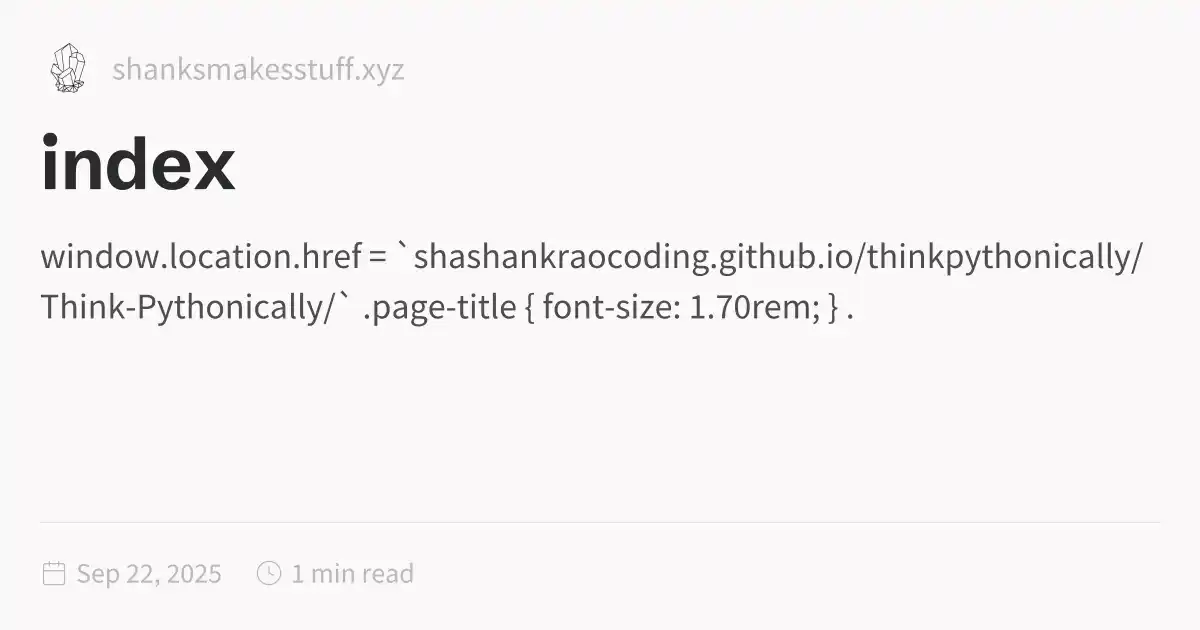
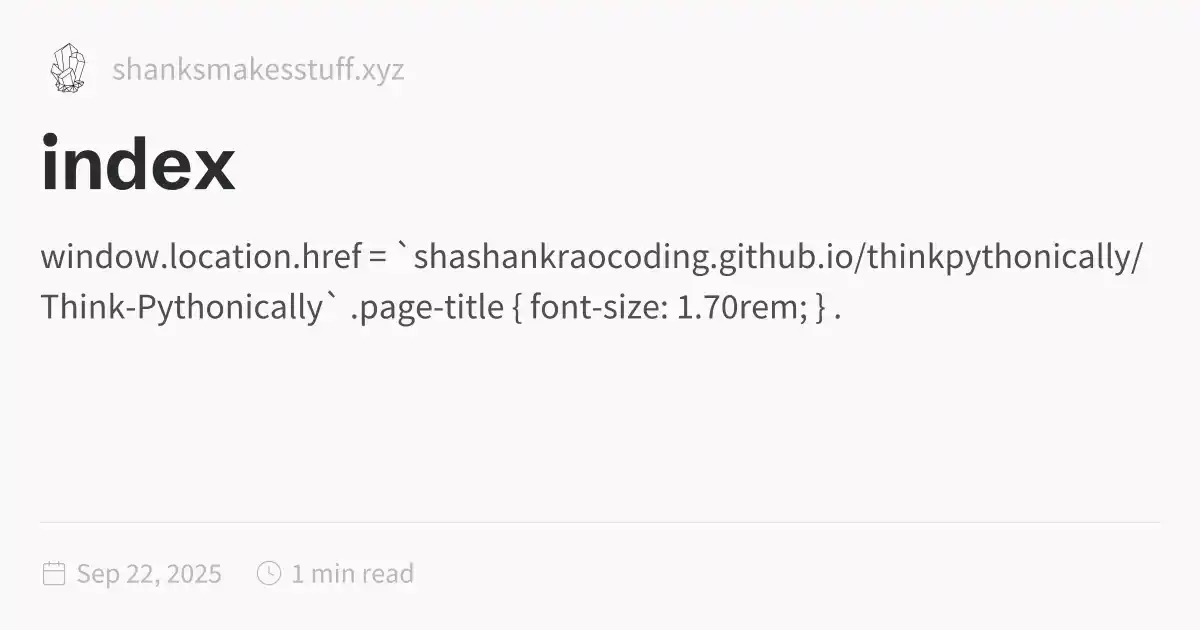
2025-09-22_2202

Changed region(s): [[0.2775, 0.4524, 0.7092, 0.5127]]

diff --git a/index.html b/index.html
@@ -1,5 +1,5 @@
 <!DOCTYPE html>
-<html lang="en"><head><title>index</title><meta charset="utf-8"/><link rel="preconnect" href="https://fonts.googleapis.com"/><link rel="preconnect" href="https://fonts.gstatic.com"/><link rel="stylesheet" href="https://fonts.googleapis.com/css2?family=Schibsted Grotesk:wght@400;700&amp;family=Source Sans Pro:ital,wght@0,400;0,600;1,400;1,600&amp;family=IBM Plex Mono:wght@400;600&amp;display=swap"/><link rel="preconnect" href="https://cdnjs.cloudflare.com" crossorigin="anonymous"/><meta name="viewport" content="width=device-width, initial-scale=1.0"/><meta name="og:site_name" content="ShanksMakesStuff"/><meta property="og:title" content="index"/><meta property="og:type" content="website"/><meta name="twitter:card" content="summary_large_image"/><meta name="twitter:title" content="index"/><meta name="twitter:description" content="window.location.href = `shashankraocoding.github.io/thinkpythonically/Think-Pythonically/` .page-title { font-size: 1.70rem; } ."/><meta property="og:description" content="window.location.href = `shashankraocoding.github.io/thinkpythonically/Think-Pythonically/` .page-title { font-size: 1.70rem; } ."/><meta property="og:image:alt" content="window.location.href = `shashankraocoding.github.io/thinkpythonically/Think-Pythonically/` .page-title { font-size: 1.70rem; } ."/><meta property="twitter:domain" content="shanksmakesstuff.xyz"/><meta property="og:url" content="https://shanksmakesstuff.xyz/index"/><meta property="twitter:url" content="https://shanksmakesstuff.xyz/index"/><link rel="icon" href="./static/icon.png"/><meta name="description" content="window.location.href = `shashankraocoding.github.io/thinkpythonically/Think-Pythonically/` .page-title { font-size: 1.70rem; } ."/><meta name="generator" content="Quartz"/><link href="./index.css" rel="stylesheet" type="text/css" spa-preserve/><style>.expand-button {
+<html lang="en"><head><title>index</title><meta charset="utf-8"/><link rel="preconnect" href="https://fonts.googleapis.com"/><link rel="preconnect" href="https://fonts.gstatic.com"/><link rel="stylesheet" href="https://fonts.googleapis.com/css2?family=Schibsted Grotesk:wght@400;700&amp;family=Source Sans Pro:ital,wght@0,400;0,600;1,400;1,600&amp;family=IBM Plex Mono:wght@400;600&amp;display=swap"/><link rel="preconnect" href="https://cdnjs.cloudflare.com" crossorigin="anonymous"/><meta name="viewport" content="width=device-width, initial-scale=1.0"/><meta name="og:site_name" content="ShanksMakesStuff"/><meta property="og:title" content="index"/><meta property="og:type" content="website"/><meta name="twitter:card" content="summary_large_image"/><meta name="twitter:title" content="index"/><meta name="twitter:description" content="window.location.href = `shashankraocoding.github.io/thinkpythonically/Think-Pythonically` .page-title { font-size: 1.70rem; } ."/><meta property="og:description" content="window.location.href = `shashankraocoding.github.io/thinkpythonically/Think-Pythonically` .page-title { font-size: 1.70rem; } ."/><meta property="og:image:alt" content="window.location.href = `shashankraocoding.github.io/thinkpythonically/Think-Pythonically` .page-title { font-size: 1.70rem; } ."/><meta property="twitter:domain" content="shanksmakesstuff.xyz"/><meta property="og:url" content="https://shanksmakesstuff.xyz/index"/><meta property="twitter:url" content="https://shanksmakesstuff.xyz/index"/><link rel="icon" href="./static/icon.png"/><meta name="description" content="window.location.href = `shashankraocoding.github.io/thinkpythonically/Think-Pythonically` .page-title { font-size: 1.70rem; } ."/><meta name="generator" content="Quartz"/><link href="./index.css" rel="stylesheet" type="text/css" spa-preserve/><style>.expand-button {
   position: absolute;
   display: flex;
   float: right;
@@ -116,8 +116,8 @@ pre:hover > .expand-button {
   padding: 0 12px;
   font-size: 14px;
 }
[1 lines of base64/hex data omitted]
-	window.location.href = `https://shashankraocoding.github.io/thinkpythonically/Think-Pythonically/` 
[1 lines of base64/hex data omitted]
+	window.location.href = `shashankraocoding.github.io/thinkpythonically/Think-Pythonically` 
 	</script> 
  
 	<style> 
